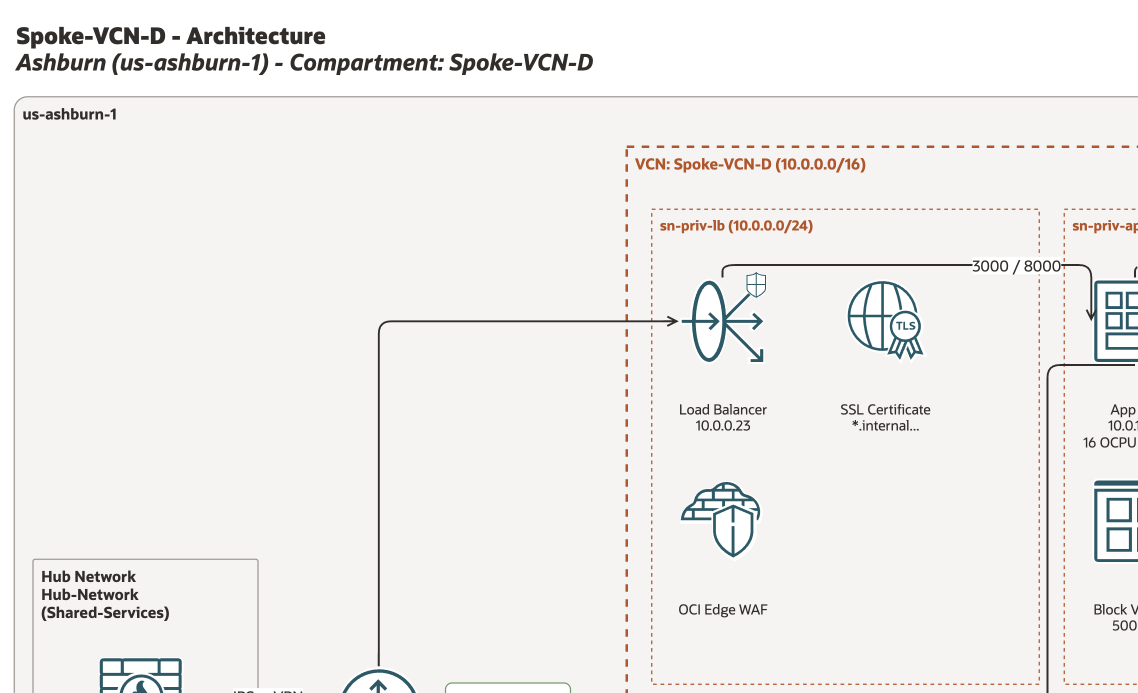
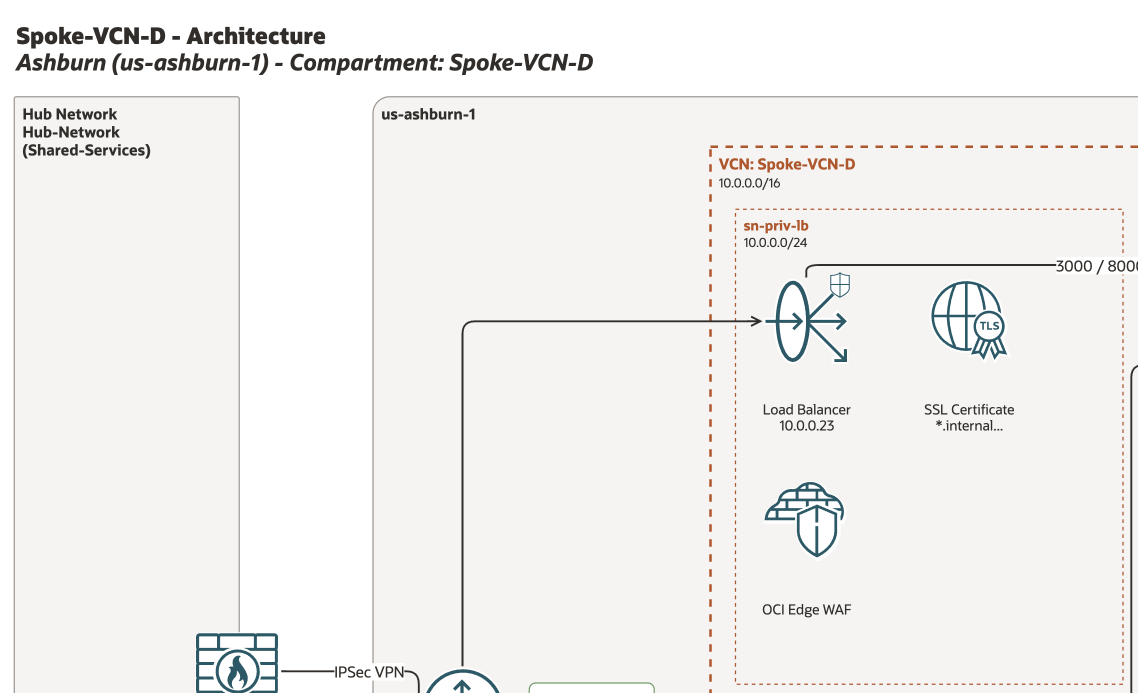
feat(examples): outside canvas in the reference sample and a compartment/OKE demo page
The canonical sample renders with the 1.4.0 default canvas: On-Premises and
Internet as page-level boxes, the CPE on the On-Premises border, the NAT facing
the Internet box and the Service Gateway facing the Oracle Services Network
band below the VCN. The demo grows to four pages with compartment containers,
a tenancy wrapper, an OKE cluster box, a tier band and the two DRG route-table
badges; page 2 keeps the 1.3.0 geometry behind locations="nested" as the
regression proof. OCI_Architecture.drawio and the four README images are
regenerated, and the screenshot crop follows the gateways that swapped sides.

check_overlaps --strict on the regenerated sample: OK: no container overlaps or
layout errors (9 containers checked across 1 page(s)).

diff --git a/oci-drawio-architect/tests/test_oci_layout.py b/oci-drawio-architect/tests/test_oci_layout.py
@@ -762,6 +762,40 @@ class ExamplesTests(unittest.TestCase):
             out = quiet(ol.write_diagram, MODEL, Path(tmp) / "ref.drawio")
             self.assertEqual(quiet(check_overlaps.main, [str(out)]), 0)
 
+    def test_reference_model_renders_the_outside_canvas(self):
+        """Spec section 9: the canonical sample ships the v1.4.0 default canvas."""
+        from generate_reference_layout import MODEL
+        self.assertEqual(MODEL["internet"], {"name": "Internet", "items": []})
+        self.assertNotIn("locations", MODEL)                   # the default is "outside"
+        d = quiet(ol.build_diagram, MODEL)
+        # the location boxes are page-level siblings of the region, not its children
+        for cid in ("hub", "internet"):
+            self.assertEqual(d._cells[cid]["parent"], "1", cid)
+        self.assertEqual(d._cells["region"]["parent"], "1")
+        rx, _, _, _ = d.abs_bbox("region")
+        hx, _, hw, _ = d.abs_bbox("hub")
+        ix, _, _, _ = d.abs_bbox("internet")
+        # the gutter holds the hybrid label AND the half slot the straddling CPE
+        # pushes out of the On-Premises box (decision 5)
+        self.assertEqual(rx - (hx + hw),
+                         max(ol.LOC_GAP_MIN, ol._hub_gutter(MODEL["drgs"], d.profile["edge_font"]))
+                         + db.ICON_W - ol.GW_SIDE_DX)
+        self.assertGreater(ix, rx)                             # Internet on the right of the region
+        # the CPE straddles the On-Premises box's region-facing border (decision 5).
+        # The reference hub item is matched by its type `oci_core_cpe`, not by the
+        # `firewall` icon it draws with.
+        cx, _, cw, _ = d.abs_bbox("cpe")
+        self.assertAlmostEqual(cx + cw / 2, hx + hw, delta=1.0)
+        # the NAT faces the Internet box, the SGW faces the OSN band below the VCN
+        vx, vy, vw, vh = d.abs_bbox("vcn-Spoke-VCN-D")
+        nx, ny, _, _ = d.abs_bbox("nat")
+        sx, sy, _, _ = d.abs_bbox("sgw")
+        self.assertEqual(nx + ol.GW_SIDE_DX, vx + vw)
+        self.assertEqual(sy + ol.GW_STRADDLE, vy + vh)
+        ox, oy, _, _ = d.abs_bbox("osn")
+        self.assertGreater(oy, vy + vh)                        # OSN is a band below the stack
+        self.assertEqual(errors_of(d), [])
+
     def test_reference_model_draws_its_nsgs_as_badges(self):
         from generate_reference_layout import MODEL
         items = {i["address"]: i for s in MODEL["vcns"][0]["subnets"] for i in s["items"]}
@@ -774,18 +808,44 @@ class ExamplesTests(unittest.TestCase):
         self.assertEqual(sorted(c for c, e in d._cells.items() if e.get("badge")),
                          ["adb-nsg", "app-vm-nsg", "lb-nsg", "worker-vm-nsg"])
 
-    def test_demo_builds_three_pages_and_passes_the_gate(self):
+    def test_demo_builds_four_pages_and_passes_the_gate(self):
         import check_overlaps
         import generate_demo_diagram as demo
         with tempfile.TemporaryDirectory() as tmp:
             out = Path(tmp) / "demo.drawio"
             quiet(demo.build, out)
             text = out.read_text(encoding="utf-8")
-            self.assertEqual(text.count("<diagram "), 3)
+            self.assertEqual(text.count("<diagram "), 4)
             self.assertIn('id="drgbox-drg"', text)                  # page 2: box style
             self.assertIn("Attachment (structural)", text)          # legend row
             self.assertIn("Oracle Services Network", text)
+            self.assertIn('id="tenancy"', text)                     # page 3: compartments
+            self.assertIn('id="compartment-Network"', text)         # _slug() turns ':' into '-'
+            self.assertIn('id="oke-main-box"', text)                # page 3: the OKE cluster box
+            self.assertIn('id="tier-app"', text)                    # page 3: the tier band
+            self.assertIn('id="drg-lz-rt2"', text)                  # page 3: two DRG route tables
             self.assertEqual(quiet(check_overlaps.main, [str(out)]), 0)
+
+    def test_demo_page_three_nests_its_vcns_in_compartments(self):
+        """Spec 6.3: VCNs are children of their compartment, the DRG stays at region level."""
+        import generate_demo_diagram as demo
+        d = quiet(ol.build_diagram, demo.COMPARTMENT_MODEL)
+        self.assertEqual(d._cells["vcn-vcn-net"]["parent"], "compartment-Network")
+        self.assertEqual(d._cells["vcn-vcn-app"]["parent"], "compartment-App")
+        self.assertEqual(d._cells["compartment-Network"]["parent"], "compartment-Enclosing")
+        self.assertEqual(d._cells["compartment-Enclosing"]["parent"], "tenancy")
+        self.assertEqual(d._cells["tenancy"]["parent"], "region")
+        self.assertEqual(d._cells["drg-lz"]["parent"], "region")
+        # the OKE box is a container whose members were re-parented into it
+        for addr in ("oke-main", "np-a", "np-b"):
+            self.assertEqual(d._cells[addr]["parent"], "oke-main-box")
+        self.assertEqual(d._cells["oke-main-box"]["group_type"], "oke_cluster")
+        self.assertEqual(d._cells["tier-app"]["group_type"], "tier")
+        # an edge may terminate on a grouping box (G8)
+        edges = [e for e in d._cells.values() if e["kind"] == "edge" and e.get("target") == "oke-main-box"]
+        self.assertEqual(len(edges), 1)
+        self.assertEqual(edges[0]["source"], "edge-lb")
+        self.assertEqual(errors_of(d), [])
 
     def test_connector_labels_are_not_drawn_over_shapes(self):
         """Spec section 2: the Site-to-Site VPN label sits on the line next to the
@@ -1009,8 +1069,10 @@ class DemoBadgeTests(unittest.TestCase):
             out = Path(tmp) / "demo.drawio"
             quiet(demo.build, out)
             text = out.read_text(encoding="utf-8")
-            self.assertEqual(text.count("ociRole=badge"), 20)          # 7 badges on each of the two
-                                                                       # layout pages + 3 legend rows each
+            # 7 subnet / NSG badges on each of the two DEMO_MODEL pages, the 2 DRG
+            # route-table badges on page 3, and the legend badge rows Task 2 added
+            # (3 + 3 on pages 1-2, 1 on page 3): 14 + 2 + 7
+            self.assertEqual(text.count("ociRole=badge"), 23)
             self.assertEqual(quiet(check_overlaps.main, [str(out)]), 0)
 
 

diff --git a/oci-drawio-architect/examples/generate_demo_diagram.py b/oci-drawio-architect/examples/generate_demo_diagram.py
@@ -2,15 +2,20 @@
 """Demo / smoke test for oci-drawio-architect v1.3.1.
 
 Page 1 "Architecture": the layout recipe (oci_layout.build_diagram) on a two-VCN
-hybrid model - on-premises panel with a CPE, a region-level DRG with two VCN
-attachments and one IPSec attachment (drg_style "icon"), IGW / NAT on the hub
-VCN's bottom border, the Service Gateway on the spoke VCN's right border, an
-Oracle Services Network panel with the regional services, the four connector
-kinds (data, control, association, attachment) and the legend. Route tables and
-security lists appear as badges on the subnets' top-right corners and NSGs as
-shield badges on the load balancer, the app VM and the database.
-Page 2 "DRG as a box": the same model with drg_style "box".
-Page 3 "Security": an NSG rule table (custom DrawioBuilder API).
+hybrid model with the default outside canvas - On-Premises and Internet as
+page-level boxes beside the region, a region-level DRG with two VCN attachments
+and one IPSec attachment (drg_style "icon"), IGW / NAT on the hub VCN's border
+facing the Internet box, the Service Gateway on the spoke VCN's bottom border
+facing the Oracle Services Network band, the four connector kinds (data,
+control, association, attachment) and the legend with its badge rows. Route
+tables and security lists appear as badges on the subnets' top-right corners
+and NSGs as shield badges on the load balancer, the app VM and the database.
+Page 2 "DRG as a box": the same model with locations "nested" and drg_style
+"box" - the 1.3.0 geometry, kept as the visual regression proof.
+Page 3 "Compartments and OKE": two VCNs in nested compartment containers inside
+a tenancy wrapper, an OKE cluster box inside a subnet, a tier band around a
+subnet row and a DRG with its two route-table badges.
+Page 4 "Security": an NSG rule table (custom DrawioBuilder API).
 
 validate() must return no errors before the file is written.
 
@@ -69,11 +74,64 @@ DEMO_MODEL = {
     ],
 }
 
+# Page 3: the 1.4.0 grouping features - compartment containers inside a tenancy
+# wrapper, an OKE cluster box inside a subnet, a tier band around a subnet row,
+# and a DRG with the two route tables Oracle creates by default.
+COMPARTMENT_MODEL = {
+    "subject": "demo-landing-zone", "region": "us-ashburn-1", "region_label": "Ashburn",
+    "compartment": "Network", "tenancy_name": "demo-tenancy",
+    "show_compartments": True,
+    "compartments": [
+        {"name": "Enclosing", "parent": None, "vcns": []},
+        {"name": "Network", "parent": "Enclosing", "vcns": ["vcn-net"]},
+        {"name": "App", "parent": "Enclosing", "vcns": ["vcn-app"]},
+    ],
+    "internet": {"name": "Internet", "items": [
+        {"icon": "user", "label": "Customers", "address": "customers"}]},
+    "drgs": [{"name": "drg-lz", "address": "drg-lz", "label": "DRG\ndrg-lz",
+              "route_table": [{"name": "drg-rt-vcn", "address": "drg-rt-vcn"},
+                              {"name": "drg-rt-other", "address": "drg-rt-other"}],
+              "attachments": [
+                  {"type": "vcn", "vcn": "vcn-net", "address": "att-net",
+                   "label": "VCN attachment\nvcn-net"},
+                  {"type": "vcn", "vcn": "vcn-app", "address": "att-app",
+                   "label": "VCN attachment\nvcn-app"}]}],
+    "vcns": [
+        {"name": "vcn-net", "cidr": "10.10.0.0/16", "compartment": "Network", "subnets": [
+            {"name": "sn-edge", "cidr": "10.10.1.0/24", "tier": "lb", "public": True, "items": [
+                {"icon": "load_balancer", "label": "Edge LB", "address": "edge-lb"}]}],
+         "gateways": [{"icon": "internet_gateway", "type": "igw", "label": "Internet\nGateway",
+                       "address": "igw-net"},
+                      {"icon": "nat_gateway", "type": "nat", "label": "NAT\nGateway",
+                       "address": "nat-net"}]},
+        {"name": "vcn-app", "cidr": "10.20.0.0/16", "compartment": "App",
+         "groups": [{"type": "tier", "label": "Application Tier", "subnets": ["sn-app"],
+                     "key": "tier-app"}],
+         "subnets": [
+            {"name": "sn-app", "cidr": "10.20.1.0/24", "tier": "app", "public": False,
+             "groups": [{"type": "oke_cluster", "label": "Container Engine for\nKubernetes Cluster",
+                         "items": ["oke-main", "np-a", "np-b"], "key": "oke-main-box"}],
+             "items": [{"icon": "oke", "label": "OKE cluster\noke-main", "address": "oke-main"},
+                       {"icon": "vm", "label": "Node pool\nnp-a", "address": "np-a"},
+                       {"icon": "vm", "label": "Node pool\nnp-b", "address": "np-b"}]}],
+         "services": [{"icon": "container_registry", "label": "OCIR", "address": "ocir"}],
+         "gateways": [{"icon": "service_gateway", "type": "sgw", "label": "Service\nGateway",
+                       "address": "sgw-app"}]},
+    ],
+    "edges": [
+        {"source": "customers", "target": "igw-net", "label": "443", "kind": "data"},
+        {"source": "edge-lb", "target": "oke-main-box", "label": "8080", "kind": "data"},
+    ],
+}
+
 
 def build(out_path: Path, do_render: bool = False) -> None:
     d = build_diagram(DEMO_MODEL, page_name="Architecture", legend=True)
-    box = build_diagram(DEMO_MODEL, page_name="DRG as a box", drg_style="box", legend=True)
+    box = build_diagram(DEMO_MODEL, page_name="DRG as a box", drg_style="box", legend=True,
+                        locations="nested")
     d.append_pages(box)
+    lz = build_diagram(COMPARTMENT_MODEL, page_name="Compartments and OKE", legend=True)
+    d.append_pages(lz)
 
     d.add_page("Security", 800, 400)
     d.add_title("NSG rules - vcn-spoke", region_label="Ashburn", region="us-ashburn-1", key="title3")

diff --git a/oci-drawio-architect/examples/make_screenshots.py b/oci-drawio-architect/examples/make_screenshots.py
@@ -5,7 +5,8 @@ Renders examples/generate_reference_layout.py with the draw.io desktop CLI and
 crops it into the four images the docs use:
 
     screenshots/diagram-overview.png   full diagram (1.25x)
-    screenshots/diagram-detail.png     data subnet + border gateways (1.5x)
+    screenshots/diagram-detail.png     data subnet + the Service Gateway on the
+                                       VCN's bottom border (1.5x)
     Screens/1.png                      top-left 1138x693 window-like crop (1.25x)
     Screens/2.png                      same as diagram-detail.png
 
@@ -93,10 +94,13 @@ def main(argv=None) -> int:
         full150 = _export(binary, drawio, tmp / "full_150.png", 1.5)
 
         sx, sy, sw, sh = d.abs_bbox("subnet-sn-priv-data")
-        nx, ny, nw, nh = d._abs_footprint("nat")            # bottom-border gateway (caption hangs below the VCN)
-        gx, gy, gw, gh = d._abs_footprint("sgw")            # right-border gateway
+        # 1.4.0 outside canvas: the SGW faces the OSN band below the VCN and the
+        # NAT faces the Internet box on the right border - the two swapped sides.
+        # The NAT sits beside the first subnet row, far above this window, so it
+        # is framed out vertically and its width is not part of the crop.
+        bx, by, bw, bh = d._abs_footprint("sgw")            # bottom-border gateway (caption hangs below the VCN)
         x0, y0 = px(sx - 12, sy - 34, 1.5)
-        x1, y1 = px(max(sx + sw + 35, gx + gw + 12), ny + nh + 12, 1.5)
+        x1, y1 = px(sx + sw + 35, by + bh + 12, 1.5)
         detail = tmp / "detail.png"
         _crop(full150, (x0, y0, x1, y1), detail)
 

diff --git a/oci-drawio-architect/examples/generate_reference_layout.py b/oci-drawio-architect/examples/generate_reference_layout.py
@@ -6,9 +6,16 @@ diagram is described as data (MODEL below) and laid out by
 scripts/oci_layout.py, so a generated script only has to fill in the model:
 subnets in traffic order, icons per subnet, regional services (drawn in the
 Oracle Services Network panel), gateways on the VCN border, the DRG with its
-attachments, the on-premises panel and the edges. Security constructs are
+attachments, the location boxes and the edges. Security constructs are
 badges, not workload icons: each NSG is listed in the "nsgs" field of the
 resource it protects and drawn as a shield over that resource's icon.
+
+The canvas is the default one ("locations": "outside"): On-Premises and
+Internet are page-level boxes beside the OCI Region, the CPE straddles the
+On-Premises box's region-facing border with the Site-to-Site VPN label in the
+gap, the NAT Gateway faces the Internet box on the VCN's right border and the
+Service Gateway faces the Oracle Services Network band below the VCN. Add
+"locations": "nested" to the model for the 1.3.0 geometry.
 
 Usage:
     python3 generate_reference_layout.py [output.drawio] [--render]
@@ -33,6 +40,7 @@ MODEL = {
              "address": "cpe"},
         ],
     },
+    "internet": {"name": "Internet", "items": []},
     "drgs": [{
         "name": "drg", "address": "drg", "label": "Dynamic Routing\nGateway (DRG)",
         "attachments": [

diff --git a/docs/superpowers/plans/2026-09-18-v1.4.0-placement-enrichments.md b/docs/superpowers/plans/2026-09-18-v1.4.0-placement-enrichments.md
@@ -5374,7 +5374,7 @@ adding a CLI call."
 5. **The reference hub item is an `oci_core_cpe` drawn with the `firewall` glyph.** `is_onprem_item` matches on `type`, not on the icon, so `_hub_item_x` straddles it on the On-Premises border (decision 5) even though its glyph is a firewall; no icon change is needed here.
 6. **The version string in the demo docstring stays `v1.3.1` in this task** - every version string is bumped in one place, Task 12, so the two tasks never edit the same line.
 
-- [ ] **Step 1: Write the failing test for the reference sample's outside canvas**
+- [x] **Step 1: Write the failing test for the reference sample's outside canvas**
 
 Add to `oci-drawio-architect/tests/test_oci_layout.py`, in `class ExamplesTests`, directly after `test_reference_model_is_schema_2_and_passes_the_gate`:
 
@@ -5414,7 +5414,7 @@ Add to `oci-drawio-architect/tests/test_oci_layout.py`, in `class ExamplesTests`
         self.assertEqual(errors_of(d), [])
 ```
 
-- [ ] **Step 2: Write the failing test for the four-page demo**
+- [x] **Step 2: Write the failing test for the four-page demo**
 
 In the same class, replace `test_demo_builds_three_pages_and_passes_the_gate` in full. Find:
 
@@ -5476,14 +5476,14 @@ Replace it with:
         self.assertEqual(errors_of(d), [])
 ```
 
-- [ ] **Step 3: Run the two new tests to verify they fail**
+- [x] **Step 3: Run the two new tests to verify they fail**
 
 Run: `cd oci-drawio-architect/tests && python3 -m unittest test_oci_layout.ExamplesTests -v 2>&1 | tail -20`
 (the plugin directory is hyphenated, so no dotted `oci-drawio-architect.tests...` path can ever import.)
 
 Expected: `test_reference_model_renders_the_outside_canvas` FAILS with `KeyError: 'internet'` (the model has no such key yet); `test_demo_builds_four_pages_and_passes_the_gate` FAILS with `3 != 4`; `test_demo_page_three_nests_its_vcns_in_compartments` FAILS with `AttributeError: module 'generate_demo_diagram' has no attribute 'COMPARTMENT_MODEL'`.
 
-- [ ] **Step 4: Add the Internet location box to the reference MODEL**
+- [x] **Step 4: Add the Internet location box to the reference MODEL**
 
 In `oci-drawio-architect/examples/generate_reference_layout.py`, find:
 
@@ -5510,7 +5510,7 @@ Replace it with:
     }],
 ```
 
-- [ ] **Step 5: Record the canvas in the reference generator's docstring**
+- [x] **Step 5: Record the canvas in the reference generator's docstring**
 
 In the same file, find:
 
@@ -5549,7 +5549,7 @@ Service Gateway faces the Oracle Services Network band below the VCN. Add
 "locations": "nested" to the model for the 1.3.0 geometry.
 ```
 
-- [ ] **Step 6: Add the demo's page-3 model**
+- [x] **Step 6: Add the demo's page-3 model**
 
 In `oci-drawio-architect/examples/generate_demo_diagram.py`, find the last lines of `DEMO_MODEL`:
 
@@ -5619,7 +5619,7 @@ COMPARTMENT_MODEL = {
 }
 ```
 
-- [ ] **Step 7: Grow `build()` to four pages**
+- [x] **Step 7: Grow `build()` to four pages**
 
 In the same file, find:
 
@@ -5646,7 +5646,7 @@ def build(out_path: Path, do_render: bool = False) -> None:
     d.add_page("Security", 800, 400)
 ```
 
-- [ ] **Step 8: Update the demo's module docstring**
+- [x] **Step 8: Update the demo's module docstring**
 
 In the same file, find:
 
@@ -5683,13 +5683,13 @@ subnet row and a DRG with its two route-table badges.
 Page 4 "Security": an NSG rule table (custom DrawioBuilder API).
 ```
 
-- [ ] **Step 9: Run the example tests - the three new ones pass, the staleness test fails on purpose**
+- [x] **Step 9: Run the example tests - the three new ones pass, the staleness test fails on purpose**
 
 Run: `cd oci-drawio-architect/tests && python3 -m unittest test_oci_layout.ExamplesTests -v 2>&1 | tail -25`
 
 Expected: `test_reference_model_renders_the_outside_canvas`, `test_demo_builds_four_pages_and_passes_the_gate` and `test_demo_page_three_nests_its_vcns_in_compartments` pass; `test_committed_reference_diagram_is_not_stale` FAILS with `OCI_Architecture.drawio is stale; regenerate it with examples/generate_reference_layout.py OCI_Architecture.drawio` - that is the expected signal, fixed in step 10.
 
-- [ ] **Step 10: Regenerate the committed reference diagram**
+- [x] **Step 10: Regenerate the committed reference diagram**
 
 Run from the repository root:
 
@@ -5700,7 +5700,7 @@ python3 oci-drawio-architect/scripts/check_overlaps.py --strict OCI_Architecture
 
 Expected: the generator prints `Wrote OCI_Architecture.drawio (<N> bytes)` on success (`write_diagram` prints any warnings to stderr) and the gate prints `OK: no container overlaps or layout errors (9 containers checked across 1 page(s)).` - v1.3.1 counted **8** (region, hub, the VCN, its four subnets and the OSN panel) and the only new container is the `internet` box; the `hub` box is not new, it merely changed parent. Record the printed line in the commit message; do not edit the gate.
 
-- [ ] **Step 11: Fix the screenshot crop for the gateways that swapped sides**
+- [x] **Step 11: Fix the screenshot crop for the gateways that swapped sides**
 
 In `oci-drawio-architect/examples/make_screenshots.py`, find:
 
@@ -5743,7 +5743,7 @@ Replace it with:
                                        SGW on the bottom border, NAT on the right)
 ```
 
-- [ ] **Step 12: Regenerate the four README images**
+- [x] **Step 12: Regenerate the four README images**
 
 Run from the repository root (draw.io desktop is installed at `~/Applications/draw.io.app`, which `find_drawio_binary()` already looks for):
 
@@ -5753,7 +5753,7 @@ python3 oci-drawio-architect/examples/make_screenshots.py
 
 Expected: four lines of the form `screenshots/diagram-overview.png: WxH (N bytes)`, `screenshots/diagram-detail.png: ...`, `Screens/1.png: 1138x693 (...)`, `Screens/2.png: ...`. `Screens/1.png` keeps its fixed 1138x693 window crop; the overview is wider than the 1.3.1 one because the two location boxes now sit outside the region. If the command prints `draw.io desktop not found; cannot render screenshots` (exit 3), export `DRAWIO_BIN="$HOME/Applications/draw.io.app/Contents/MacOS/draw.io"` and re-run.
 
-- [ ] **Step 13: Update the demo badge count**
+- [x] **Step 13: Update the demo badge count**
 
 The demo now has three layout pages. In `oci-drawio-architect/tests/test_oci_layout.py`, in `class DemoBadgeTests`, find:
 
@@ -5775,7 +5775,7 @@ Expected: `test_demo_model_carries_badges_on_both_layout_pages` passes. If it re
 `python3 oci-drawio-architect/examples/generate_demo_diagram.py /tmp/v140-task11-demo.drawio && grep -c 'ociRole=badge' /tmp/v140-task11-demo.drawio`
 and write that number into the assertion with the badge kinds spelled out in the trailing comment - the count is a property of the two demo models, not a behaviour under test.
 
-- [ ] **Step 14: Run the connector-quality tests that the new canvas can disturb**
+- [x] **Step 14: Run the connector-quality tests that the new canvas can disturb**
 
 Run: `cd oci-drawio-architect/tests && python3 -m unittest test_oci_layout.ExamplesTests.test_connector_labels_are_not_drawn_over_shapes test_oci_layout.ExamplesTests.test_reference_gives_every_connector_its_own_docking_point -v 2>&1 | tail -20`
 
@@ -5786,7 +5786,7 @@ the VCN's right border is fully legible: it needs `label_fill` (so it is not cut
 border) and about 52 px of horizontal room outside the VCN, which `VCN_SIDE_PAD` and the column
 gap provide. A clipped or overlapped caption is a Task 6 defect.
 
-- [ ] **Step 15: Run the full suite and both gates**
+- [x] **Step 15: Run the full suite and both gates**
 
 Run from the repository root:
 
@@ -5799,7 +5799,7 @@ Expected: `Ran 558 tests ... OK` (556 after Task 10 plus the two this task adds 
 `test_demo_builds_three_pages_and_passes_the_gate` rather than adding one) and
 `OK: no container overlaps or layout errors (...)` for the regenerated sample.
 
-- [ ] **Step 16: Commit**
+- [x] **Step 16: Commit**
 
 ```bash
 git add oci-drawio-architect/examples/generate_reference_layout.py \
